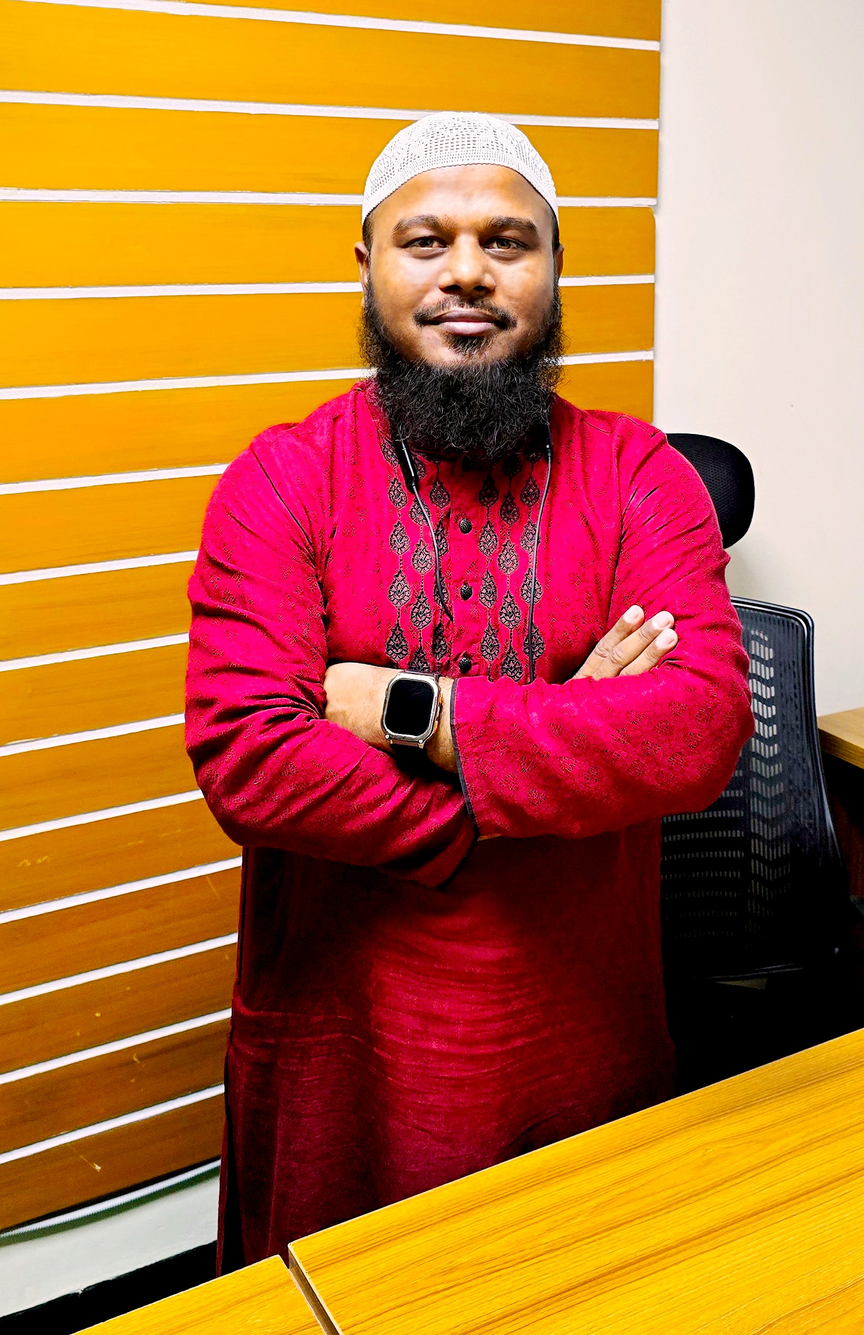
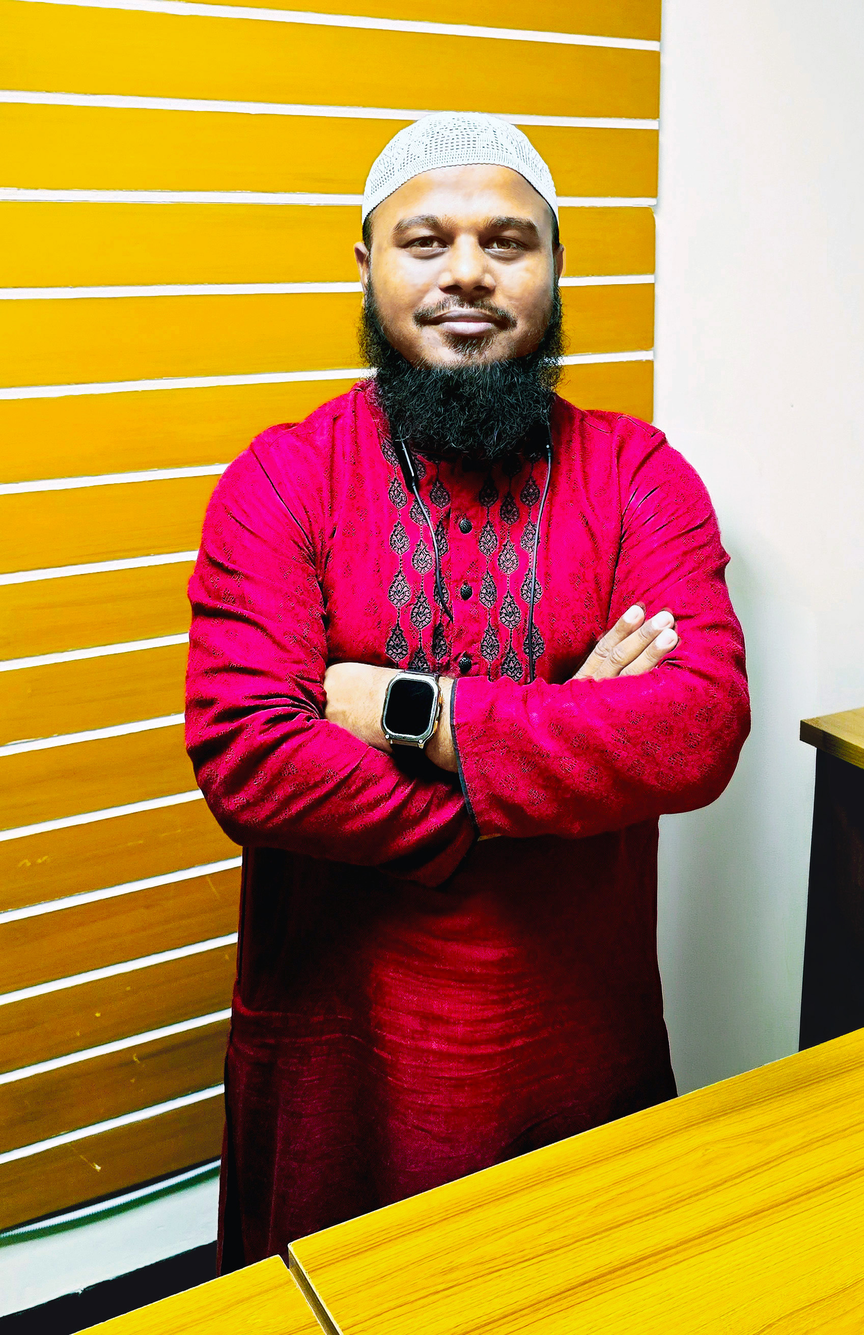
Update Mahbub portrait

diff --git a/assets/js/app.jsx b/assets/js/app.jsx
@@ -178,7 +178,7 @@
                         title: 'Photo Gallery',
                         photos: [
                             { src: 'assets/images/mahbub-portrait-1.jpg', alt: 'Md Mahbubur Rahman portrait 1', label: 'Portrait 01', featured: true },
-                            { src: 'assets/images/mahbub-portrait-2.jpg', alt: 'Md Mahbubur Rahman portrait 2', label: 'Portrait 02', featured: false }
+                            { src: 'assets/images/mahbub-portrait-2.jpg?v=20260510', alt: 'Md Mahbubur Rahman portrait 2', label: 'Portrait 02', featured: false }
                         ]
                     },
                     sectionHeaders: {
@@ -433,7 +433,7 @@
                         title: 'معرض الصور',
                         photos: [
                             { src: 'assets/images/mahbub-portrait-1.jpg', alt: 'الصورة الشخصية الأولى لـ محمد محبوب الرحمن', label: 'الصورة 01', featured: true },
-                            { src: 'assets/images/mahbub-portrait-2.jpg', alt: 'الصورة الشخصية الثانية لـ محمد محبوب الرحمن', label: 'الصورة 02', featured: false }
+                            { src: 'assets/images/mahbub-portrait-2.jpg?v=20260510', alt: 'الصورة الشخصية الثانية لـ محمد محبوب الرحمن', label: 'الصورة 02', featured: false }
                         ]
                     },
                     sectionHeaders: {
@@ -688,7 +688,7 @@
                         title: 'ছবি গ্যালারি',
                         photos: [
                             { src: 'assets/images/mahbub-portrait-1.jpg', alt: 'Md Mahbubur Rahman-এর পোর্ট্রেট ১', label: 'ছবি ০১', featured: true },
-                            { src: 'assets/images/mahbub-portrait-2.jpg', alt: 'Md Mahbubur Rahman-এর পোর্ট্রেট ২', label: 'ছবি ০২', featured: false }
+                            { src: 'assets/images/mahbub-portrait-2.jpg?v=20260510', alt: 'Md Mahbubur Rahman-এর পোর্ট্রেট ২', label: 'ছবি ০২', featured: false }
                         ]
                     },
                     sectionHeaders: {
